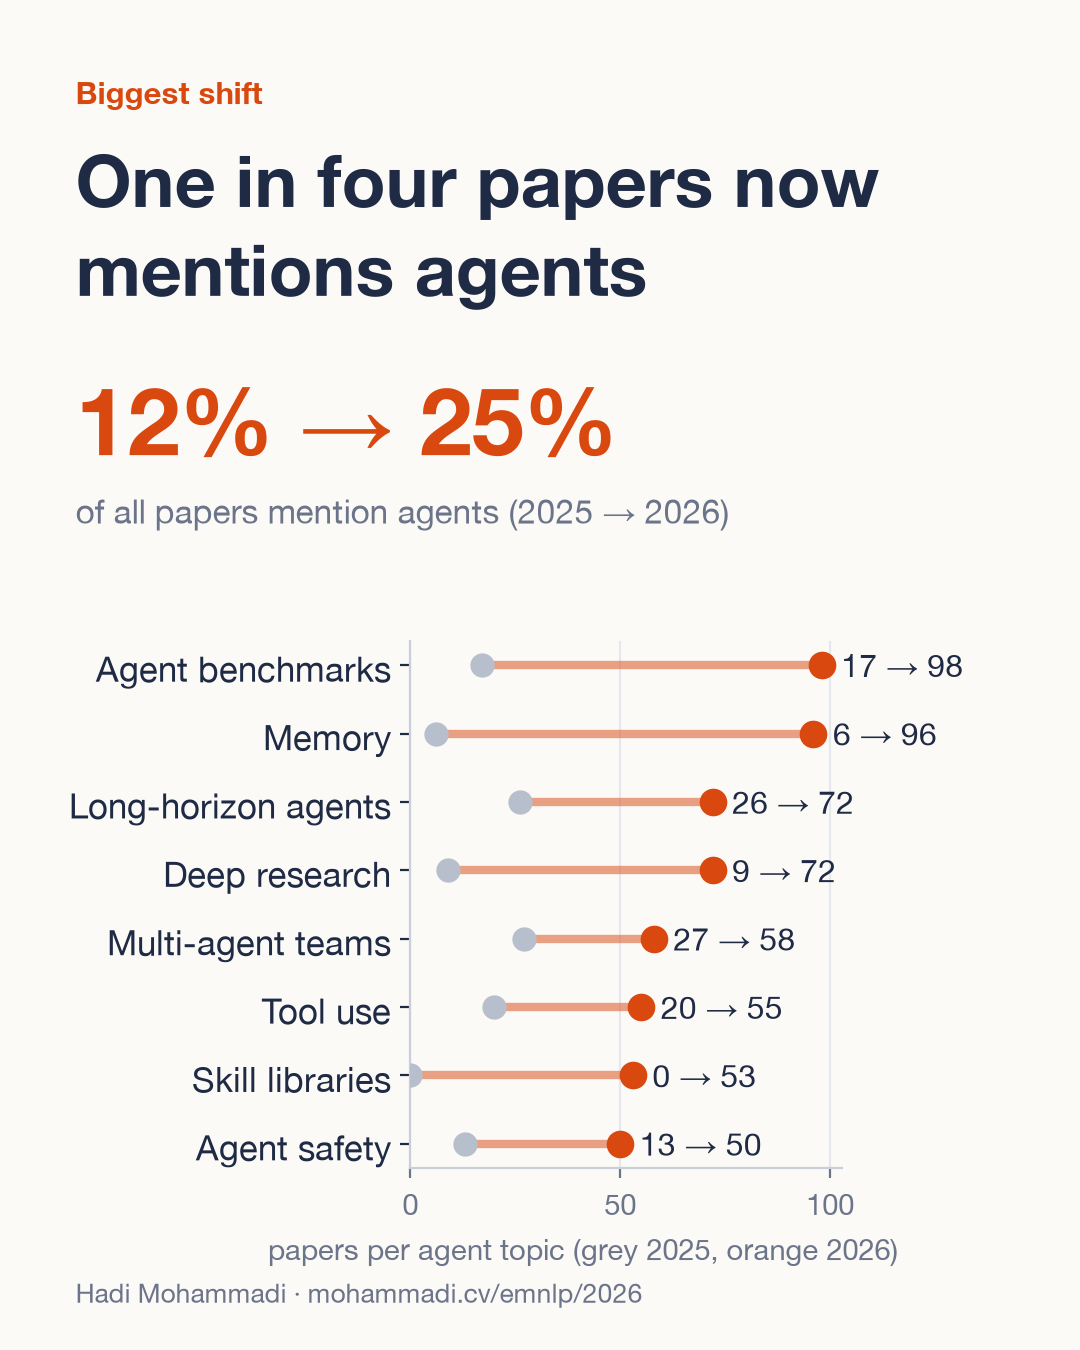
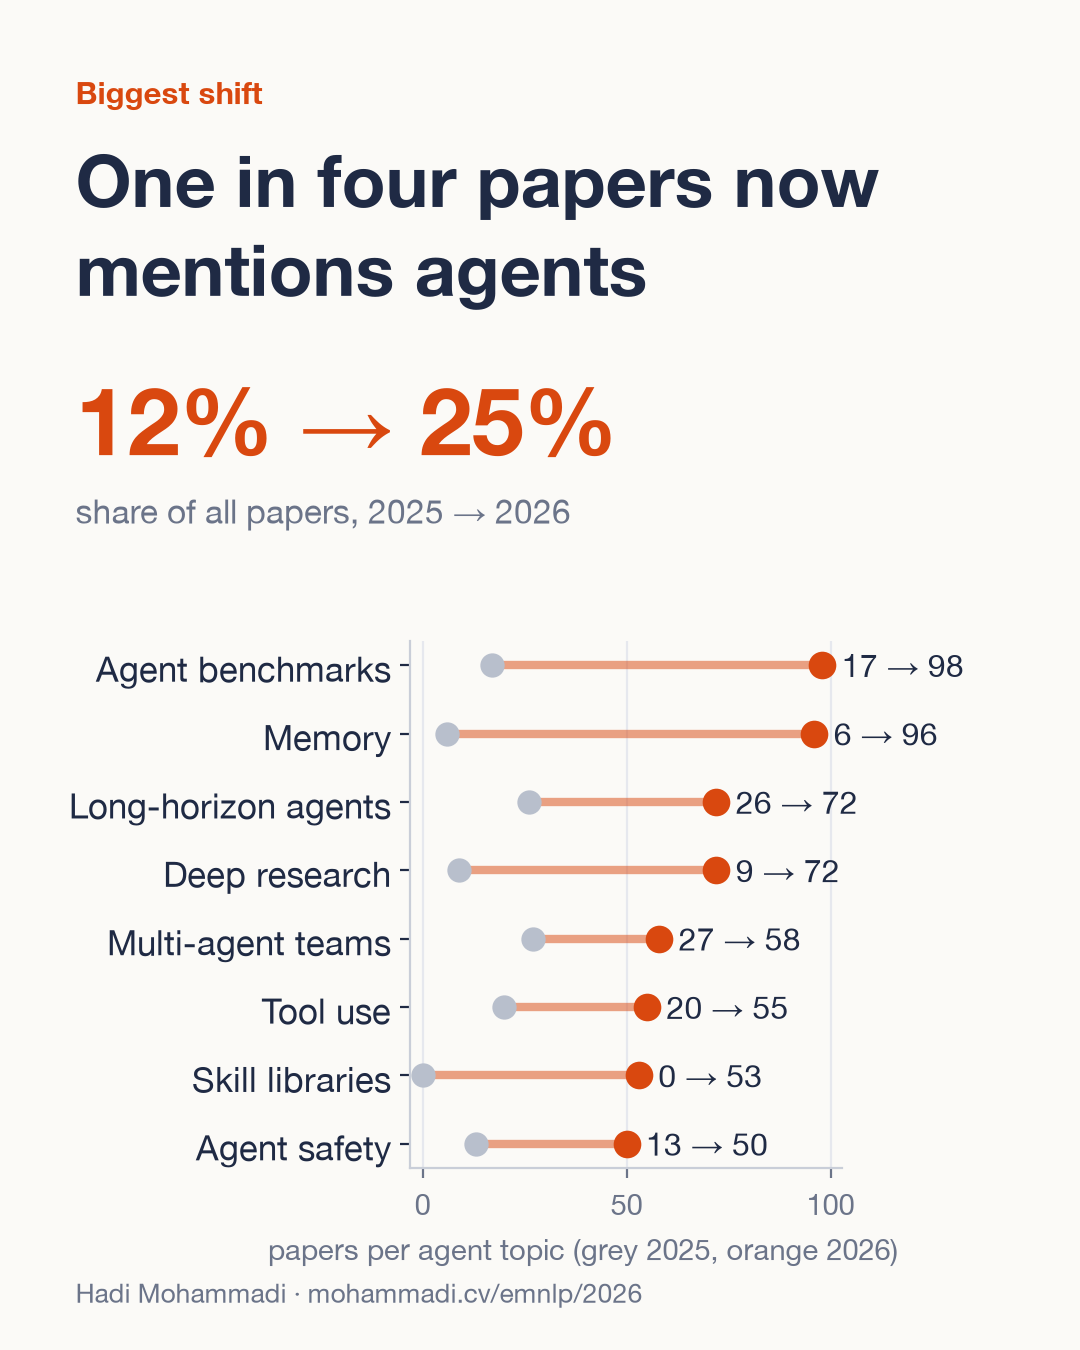
Match the cards to the NeurIPS set and make the last map readable

diff --git a/src/14_carousel.py b/src/14_carousel.py
@@ -146,8 +146,8 @@ def draw_cover(fig, box):
     fig.text(0.07, 0.035, f"{AUTHOR} · {URL} · {CITY}, {when.replace('October ', 'Oct ')}", fontsize=9.5, color=MUTED)
 
 
-card("1_cover.png", "Paper atlas", f"EMNLP {CUR}\non one map",
-     f"All {n_cur:,} papers, and what changed since {PREV}", draw_cover, (0.0, 0.065, 1.0, 0.65), footer=False)
+card("1_cover.png", f"EMNLP {CUR} · paper atlas", f"{n_cur:,} papers,\none map",
+     f"Every paper at EMNLP {CUR}, placed by what\nits abstract says. What changed since {PREV}?", draw_cover, (0.0, 0.065, 1.0, 0.6), footer=False)
 
 # ================= 2. agents =================
 A = S["agents"]
@@ -170,7 +170,7 @@ def draw_agents(fig, box):
                  fontweight="bold", va="top")
     fig.canvas.draw()
     y0 = t.get_window_extent().transformed(fig.transFigure.inverted()).y0
-    fig.text(0.07, y0 - 0.012, f"of all papers mention agents ({PREV} → {CUR})", fontsize=12, color=MUTED, va="top")
+    fig.text(0.07, y0 - 0.012, f"share of all papers, {PREV} → {CUR}", fontsize=12, color=MUTED, va="top")
     ax = fig.add_axes([box[0] + 0.33, box[1], box[2] - 0.5, box[3]])
     a_p = np.array([f[f"n_{p}"] for f in fam]); a_c = np.array([f[f"n_{c}"] for f in fam])
     yy = np.arange(len(fam))[::-1]
@@ -181,7 +181,7 @@ def draw_agents(fig, box):
         ax.annotate(f"{a_} → {b_}", (b_, y_), xytext=(7, 0), textcoords="offset points", va="center",
                     fontsize=11.5, color=INK, annotation_clip=False)
     ax.set_yticks(yy, [AGENT_SHORT.get(f["topic"], f["topic"]) for f in fam], fontsize=12.5)
-    ax.set_xlim(0, a_c.max() * 1.05)
+    ax.set_xlim(-3, a_c.max() * 1.05)  # room for dots at 0
     ax.tick_params(axis="x", labelsize=10.5)
     ax.set_xlabel(f"papers per agent topic (grey {PREV}, orange {CUR})", fontsize=10.5, x=0.4)
     ax.grid(axis="x", color="#e6e8ee", lw=0.8); ax.set_axisbelow(True)
@@ -237,7 +237,7 @@ def draw_numbers(fig, box):
         (f"{n_prev:,} → {n_cur:,}", f"papers in total\n({S['growth_pct']:+.0f}% on {PREV})", ACC),
         (f"{mem[f'n_{p}']} → {mem[f'n_{c}']}", "papers on memory\nfor agents", ACC),
         (f"{rlvr[f'n_{p}']} → {rlvr[f'n_{c}']}", "papers on RL with\nverifiable rewards (RLVR)", INK),
-        (pct(bench[f"pct_{c}"]), f"of papers say 'benchmark'\n(was {pct(bench[f'pct_{p}'])} in {PREV})", INK),
+        (pct(bench[f"pct_{c}"]), f"of papers mention a benchmark\n(was {pct(bench[f'pct_{p}'])} in {PREV})", INK),
     ]
     for i, (big, small, col) in enumerate(cells):
         x = 0.07 + (i % 2) * 0.46
@@ -280,17 +280,11 @@ card("5_countries.png", "Who writes the papers", "China overtook\nthe US",
 
 
 def draw_explore(fig, box):
-    img = np.asarray(Image.open(OUT / "figures" / "atlas_clusters.png").convert("RGB")).astype(int)
-    inner = img[30:-30, 30:-30]  # skip the thin frame drawn around the figure
-    bg = inner[5, 5]
-    ys, xs = np.where(np.abs(inner - bg).sum(axis=2) > 24)
-    m = 20
-    crop = inner[max(ys.min() - m, 0):ys.max() + m, max(xs.min() - m, 0):xs.max() + m]
-    bw, bh = box[2] * W, box[3] * H
-    asp = crop.shape[0] / crop.shape[1]
-    w, h = (bw, bw * asp) if bw * asp <= bh else (bh / asp, bh)
-    ax = fig.add_axes([box[0] + (box[2] - w / W) / 2, box[1] + (box[3] - h / H) / 2, w / W, h / H])
-    ax.imshow(crop.astype(np.uint8), interpolation="lanczos"); ax.axis("off")
+    # the same map as the cover, with labels large enough to read on a phone
+    ax = map_axes(fig, box)
+    pal = plt.get_cmap("tab20")
+    ax.scatter(dc.x, dc.y, s=2.2, c=[pal(int(b) % 20) for b in dc.broad], alpha=0.85, linewidths=0)
+    label_areas(ax, COVER_NAMES, 12)
     fig.text(0.5, 0.135, URL, fontsize=21, fontweight="bold", color=ACC, ha="center")
     fig.text(0.5, 0.085, f"Code and data: {REPO}", fontsize=11, color=INK, ha="center")
     fig.text(0.5, 0.05, f"{AUTHOR} · same method as the NeurIPS {CUR} map", fontsize=11, color=MUTED, ha="center")
